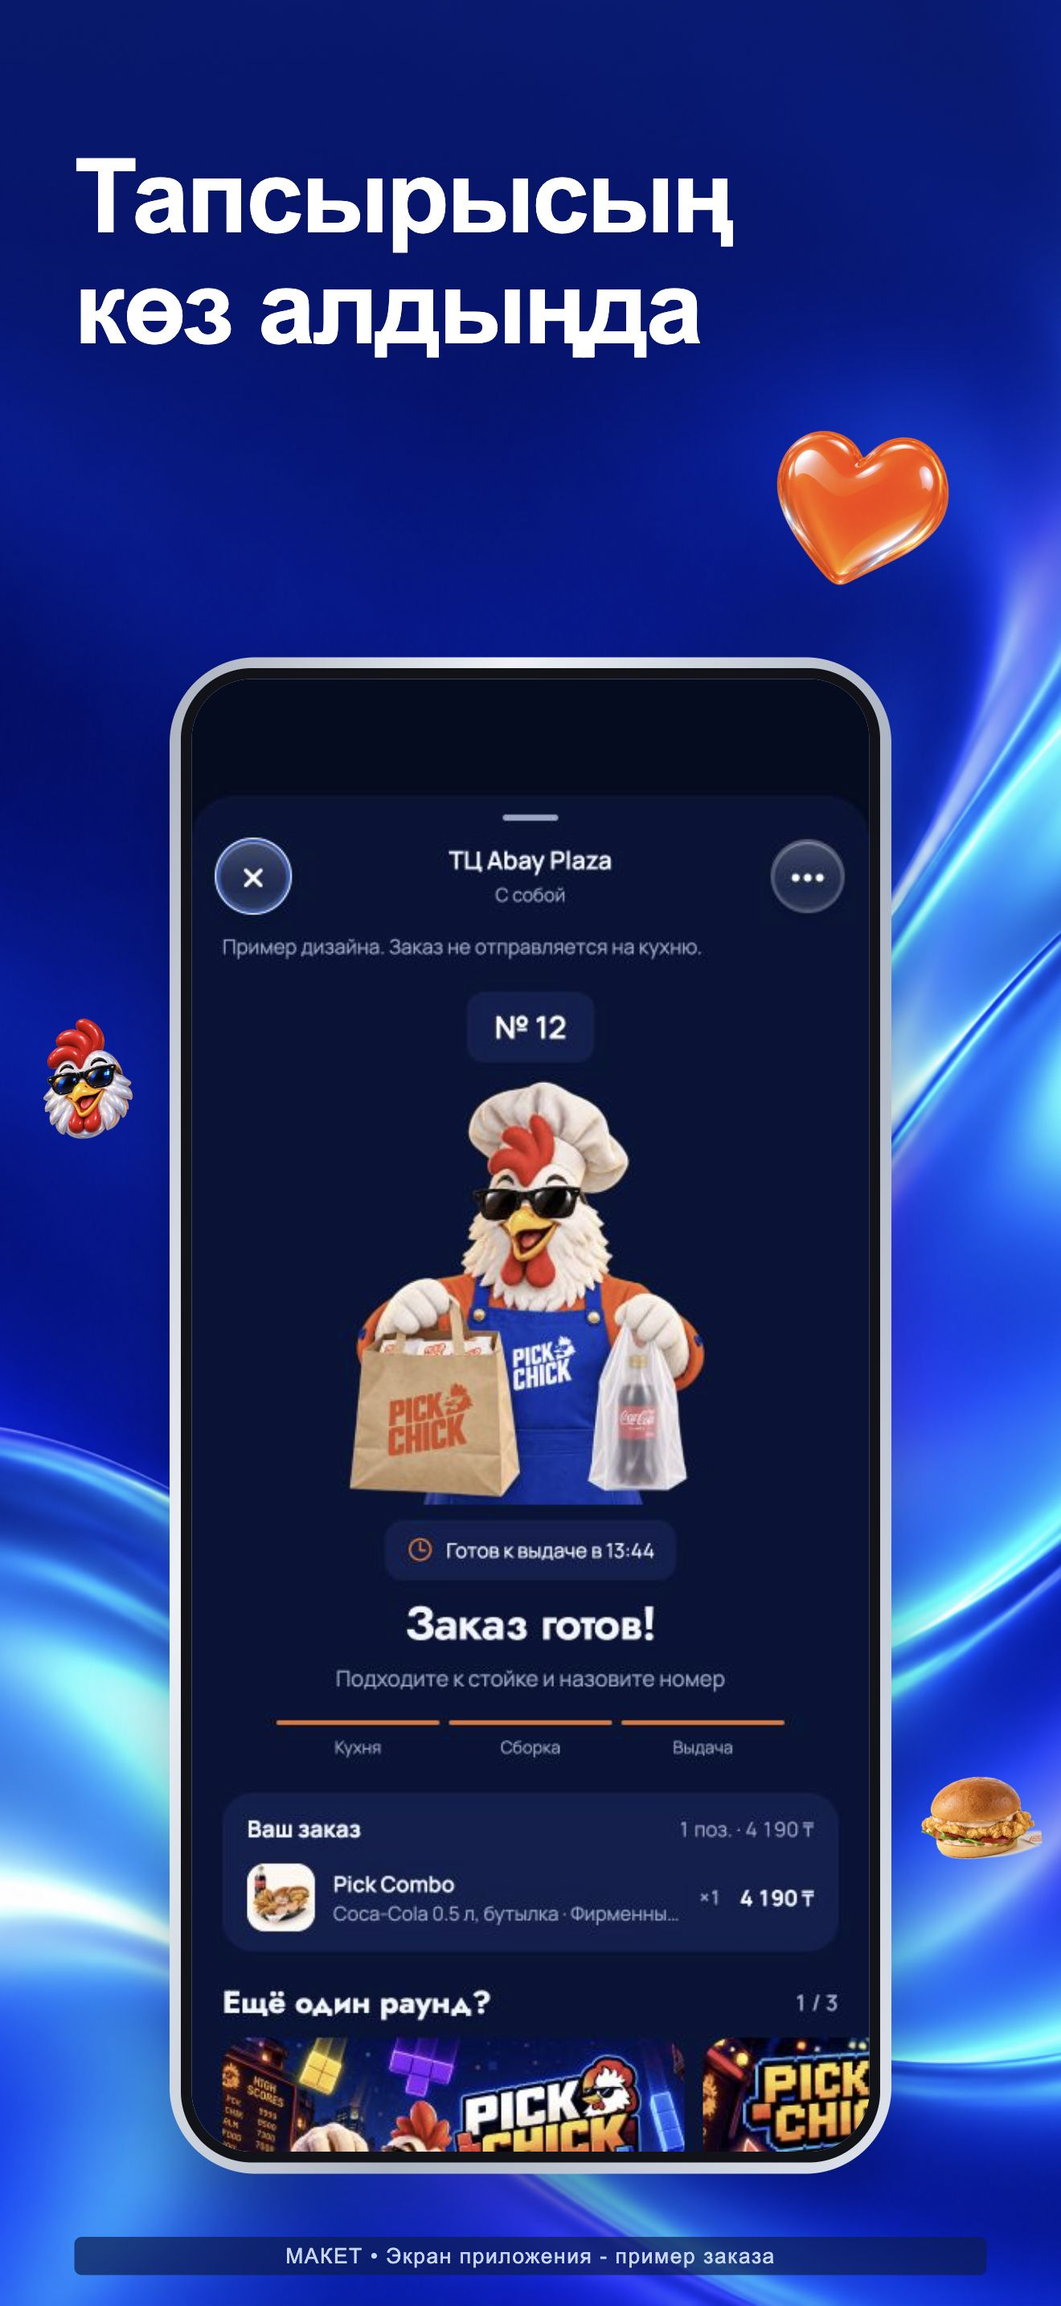
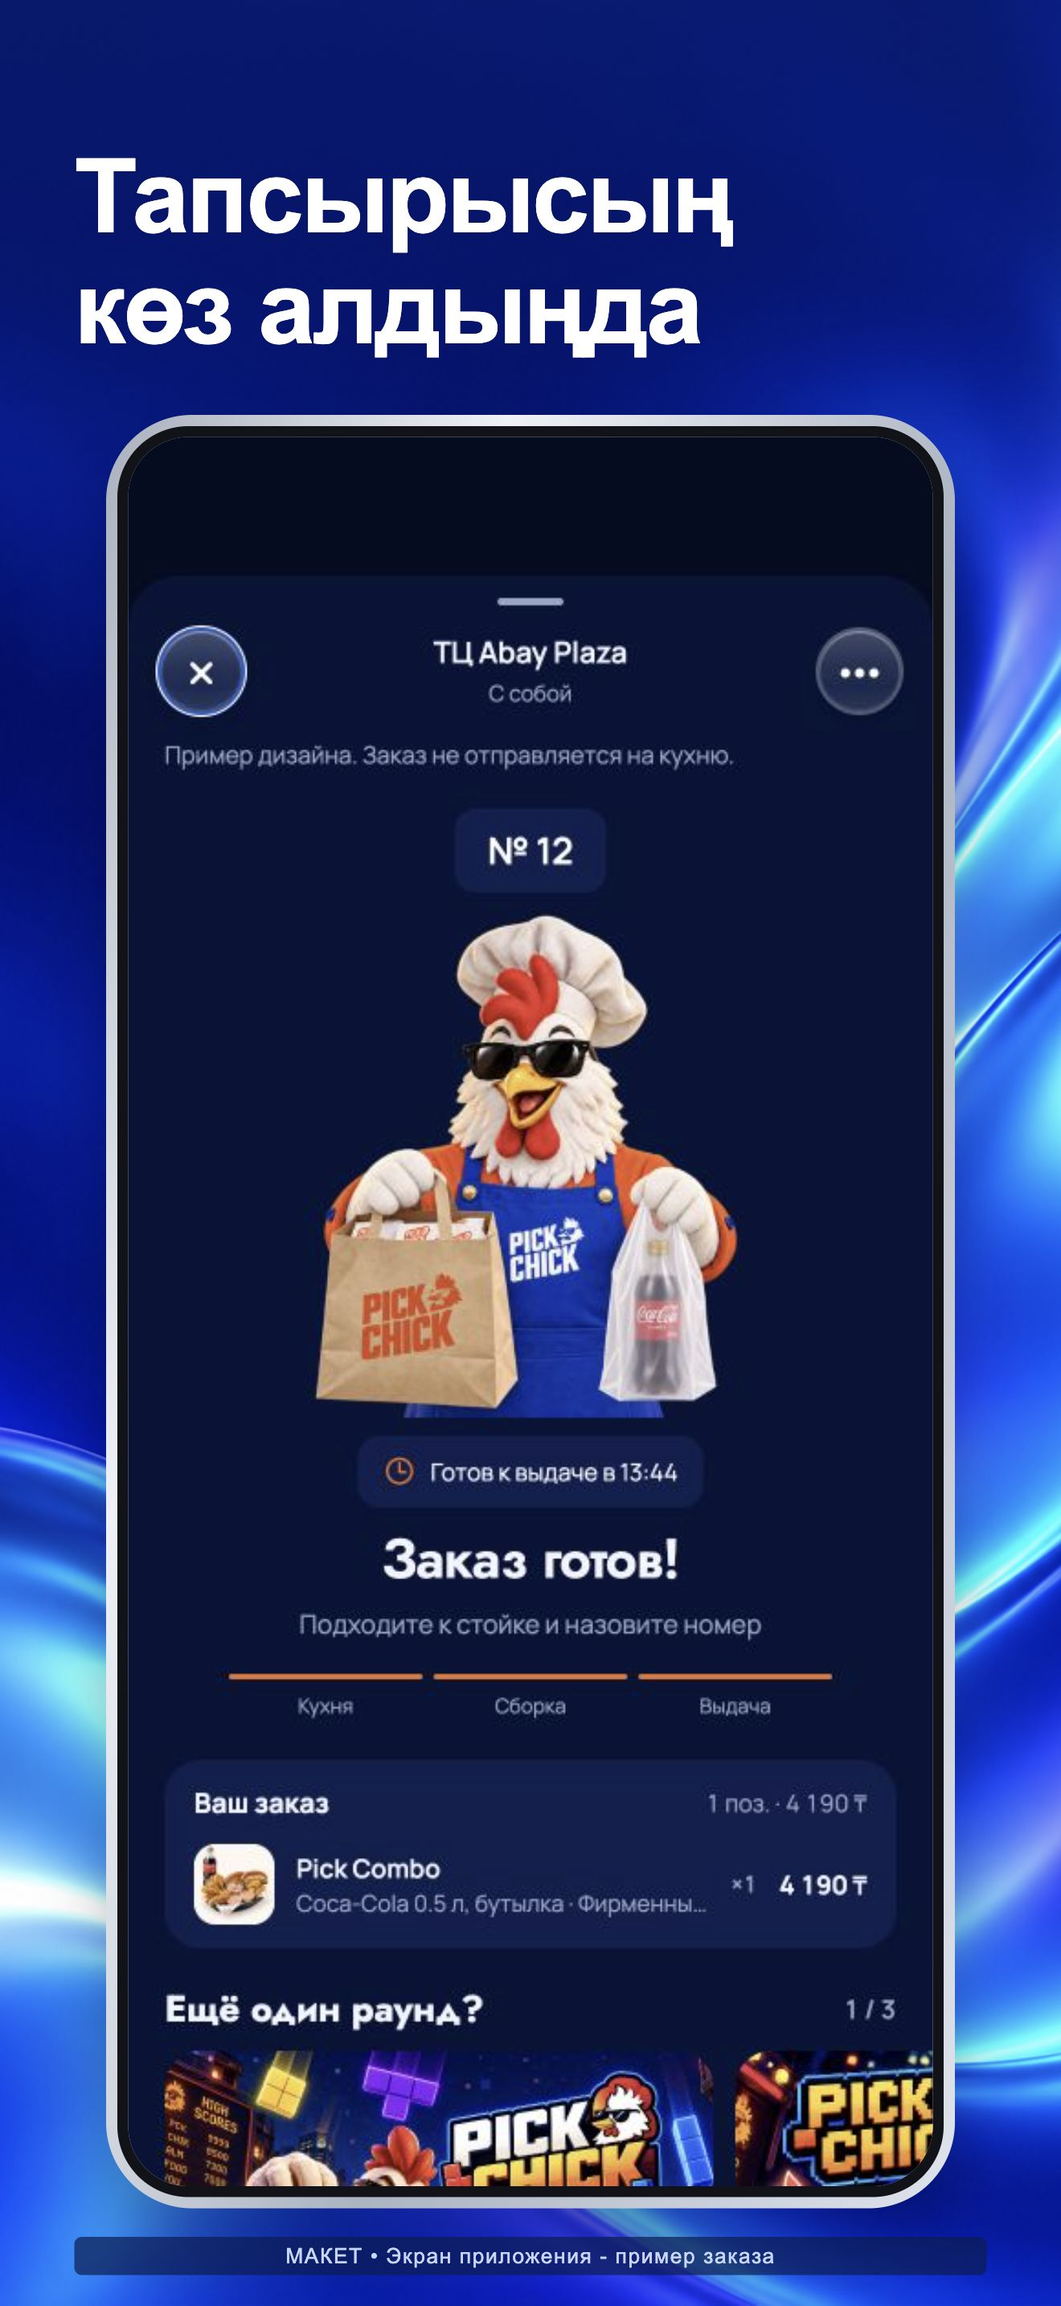
docs: simplify screenshot layouts and enlarge phones

diff --git a/docs/operations/appstore-refresh-1117/selected-four-1118/index.html b/docs/operations/appstore-refresh-1117/selected-four-1118/index.html
@@ -125,9 +125,9 @@
       .phone {
         position: absolute;
         z-index: 2;
-        width: var(--phone-width, 68%);
-        left: var(--phone-left, 16%);
-        top: var(--phone-top, 28.5%);
+        width: var(--phone-width, 80%);
+        left: var(--phone-left, 10%);
+        top: var(--phone-top, 18%);
         padding: 1.05cqw;
         border-radius: 8.1cqw;
         background: linear-gradient(110deg, #a8b0be, #eef1f6 27%, #aab4c3 60%, #dde3ed);
@@ -144,37 +144,6 @@
         width: 100%;
         height: auto;
         image-rendering: auto;
-      }
-      .motif {
-        position: absolute;
-        z-index: 4;
-        aspect-ratio: 1;
-        background-size: contain;
-        background-position: center;
-        background-repeat: no-repeat;
-        pointer-events: none;
-      }
-      .motif.alex {
-        background-image: url('../screenshots-preview-1118/art/sticker-alex-hd.png');
-      }
-      .motif.flame {
-        background-image: url('../screenshots-preview-1118/art/sticker-flame-hd.png');
-      }
-      .motif.friends-box {
-        background-image: url('art/friends-box.png');
-        background-position: center;
-        background-size: contain;
-      }
-      .motif.cup {
-        background-image: url('../screenshots-preview-1118/art/sticker-cup-hd.png');
-      }
-      .motif.heart {
-        background-image: url('../screenshots-preview-1118/art/sticker-heart-hd.png');
-      }
-      .motif.food-burger {
-        background-image: url('../screenshots-preview-1118/art/food-burger.png');
-        background-position: center;
-        background-size: contain;
       }
       body.cover-only main {
         padding: 0;
@@ -354,18 +323,6 @@
           canvas.style.setProperty('--phone-left', s.phone.left + '%');
           canvas.style.setProperty('--phone-top', s.phone.top + '%');
           canvas.style.setProperty('--phone-width', s.phone.width + '%');
-          for (const item of s.motifs) {
-            const motif = document.createElement('div');
-            motif.className = 'motif ' + item.name;
-            motif.setAttribute('aria-hidden', 'true');
-            Object.assign(motif.style, {
-              left: item.left + '%',
-              top: item.top + '%',
-              width: item.width + '%',
-              transform: 'rotate(' + item.rotation + 'deg)',
-            });
-            canvas.append(motif);
-          }
           const h = document.createElement('h2');
           h.lang = 'kk';
           h.textContent = s.headline;

diff --git a/docs/operations/appstore-refresh-1117/selected-four-1118/README.md b/docs/operations/appstore-refresh-1117/selected-four-1118/README.md
@@ -1,6 +1,6 @@
 # Четыре выбранных скриншота Pick Chick
 
-18.11.2026 владелец сократил набор до четырёх кадров, затем попросил центрировать телефоны, заменить старый статус на дизайн приложения и убрать декоративный фингерс. Все телефоны теперь по одной центральной оси; фингерсы заменены фирменной коробкой FRIENDS BOX. Четвёртым показан встроенный пример актуального экрана готовности с Алексом. Подписи и переливающийся фон сохранены.
+18.11.2026 по следующему уточнению владельца удалены все внешние стикеры. Телефоны увеличены с 68% до 80% ширины кадра и подняты с 28,5% до 18% высоты, сохраняя общую центральную ось. Подписи, переливающийся фон и внутренние экраны сохранены.
 
 | Порядок | Экран         | Подпись                  |
 | ------- | ------------- | ------------------------ |
@@ -13,8 +13,8 @@
 
 Первые три исходника сохранены побайтно в `sources/`, размер 1320 x 2868. Номер сборки отдельно не подтверждался. Цены не редактировались и независимо не проверялись. Четвёртый кадр снят с локальной галереи приложения, 440 x 956, без перерисовки интерфейса. OrderStatusScreen и OrderChef не отличаются между исходником 32 (e4eb91b5) и 40 (502743ce); оболочка OrderSheet менялась. Поэтому это пример дизайна, а не нативный снимок сборки 40. Пометка примера внутри приложения сохранена, реальные заказ и оплата не создавались. SHA-256 и точный способ получения записаны в [manifest.json](manifest.json).
 
-Коробка создана встроенным генератором по оригинальным lid.png и front.png из макета владельца. PNG 1254 x 1254 с прозрачностью; это декоративная визуализация упаковки. [Промпт](art/generation-prompt.txt) и [происхождение](art/provenance.json).
+Прежняя декоративная коробка больше не показывается; исходник оставлен для истории. Она создана встроенным генератором по оригинальным lid.png и front.png из макета владельца. PNG 1254 x 1254 с прозрачностью; это декоративная визуализация упаковки. [Промпт](art/generation-prompt.txt) и [происхождение](art/provenance.json).
 
-Экспорты для просмотра имеют размер 1320 x 2868. Галерея: [четыре кадра](http://127.0.0.1:8877/selected-four-1118/), обзоры [1-2](preview-01-02.jpg) и [3-4](preview-03-04.jpg). Фон и декоративные фигуры используются из соседнего каталога [art](../screenshots-preview-1118/art/); фактическое разрешение источников описано в его манифесте.
+Экспорты для просмотра имеют размер 1320 x 2868. Галерея: [четыре кадра](http://127.0.0.1:8877/selected-four-1118/), обзоры [1-2](preview-01-02.jpg) и [3-4](preview-03-04.jpg). Фон используется из соседнего каталога [art](../screenshots-preview-1118/art/); фактическое разрешение источников описано в его манифесте.
 
 Это предпросмотр для владельца. Загрузка в App Store и отправка на проверку этим изменением не выполнялись. Перед загрузкой принять оформление и заменить пример статуса нативным снимком выбранной сборки.

diff --git a/docs/operations/appstore-refresh-1117/screenshots-plan.md b/docs/operations/appstore-refresh-1117/screenshots-plan.md
@@ -2,7 +2,7 @@
 
 Статус на 18.11: владелец сократил набор до [четырёх макетов](selected-four-1118/README.md). Первые три - новые снимки владельца, четвёртый - веб-пример актуального дизайна статуса. Сохранены подходящие подписи из утверждённого второго набора. Файлов для загрузки в Apple пока нет.
 
-Актуальное направление после правки владельца: насыщенный переливающийся синий фон с бирюзовыми и фиолетовыми отражениями. По бокам и углам телефона - разные мотивы Pick Chick (Алекс, пламя, фирменная коробка, сердце, бургер), по три на кадр, с разной высотой, размером и поворотом. Ряд наверху отклонён владельцем. Все стикеры видны целиком, находятся выше телефона по слою и не скрывают текст или действия интерфейса. Интерфейс и исходные изображения еды не перерисованы. Телефон 68% ширины, верхняя граница на 28,5% высоты, отступ слева и справа 16%; заголовок остаётся крупным и читаемым.
+Актуальное направление после последней правки владельца: насыщенный переливающийся синий фон с бирюзовыми и фиолетовыми отражениями. Все внешние стикеры убраны. Телефон увеличен до 80% ширины кадра, поднят до 18% высоты и отцентрирован (по 10% по бокам). Интерфейс, подписи и исходные изображения еды сохранены.
 
 | Порядок | Казахская подпись        | Смысл по-русски          | Финальный экран           |
 | ------- | ------------------------ | ------------------------ | ------------------------- |
@@ -25,7 +25,7 @@
 ## Компоновка
 
 - Первичный размер 1320 x 2868. Дополнительный 1206 x 2622 готовить только для соответствующей группы устройств в актуальном менеджере материалов.
-- Заголовок занимает верхние примерно 16% высоты. Телефон начинается на 28,5% высоты, ширина 68% полотна, отцентрирован по горизонтали. Стикеры распределены свободно вокруг него; точный размер телефона определяется пропорциями исходного снимка без растяжения.
+- Заголовок занимает верхние примерно 16% высоты. Телефон начинается на 18% высоты, ширина 80% полотна, отцентрирован по горизонтали. Внешних стикеров нет; точный размер телефона определяется пропорциями исходного снимка без растяжения.
 - Проверить казахские Ә, Ғ, Қ, Ң, Ө, Ұ, Ү, Һ, І в используемом шрифте. Не допускать случайного смешения гарнитур из-за отсутствующих глифов.
 - Применять фон и рамку только снаружи снимка. Фотографии еды остаются исходными внутри приложения.
 - Просмотреть четыре кадра рядом и первые три в масштабе карточки App Store. Проверить читаемость заголовка и отсутствие обрезанных элементов.

diff --git a/docs/operations/appstore-refresh-1117/README.md b/docs/operations/appstore-refresh-1117/README.md
@@ -67,3 +67,7 @@
 Новые четыре макета ждут просмотра владельцем и в Apple не загружались. Номер сборки на трёх снимках отдельно не подтверждён, цены сохранены как присланы. Четвёртый - полный веб-пример 440 x 956 вместо старого архивного экрана. Перед загрузкой снять этот статус в выбранной нативной сборке и принять финальные изображения без пометок предпросмотра. Казахский не подменяет автоматически локализации RU и en-GB. Синяя обложка уже принята Apple; новая переливающаяся версия пока только в макетах.
 
 Код приложения, сервер, цены, Google Play и опубликованная версия не менялись. Общий статус, roadmap и онлайн-пульт не обновлялись: промежуточная подготовка записана здесь, этап оформления ещё не завершён.
+
+## Без стикеров, крупнее и выше - 18.11
+
+По последнему уточнению владельца убраны все внешние стикеры. Телефоны увеличены с 68% до 80% ширины и подняты с 28,5% до 18% высоты, сохраняя центральную ось. Подписи, фон и четыре исходных экрана сохранены. Экспорты 1320 x 2868, рамки и заголовки не обрезаны и не пересекаются. Доказательства: [проверки](selected-four-1118/verification.json), [геометрия](selected-four-1118/layout-check.json), [обзор 1-2](selected-four-1118/preview-01-02.jpg), [обзор 3-4](selected-four-1118/preview-03-04.jpg). Загрузки в Apple не было; следующий шаг - просмотр владельцем.
